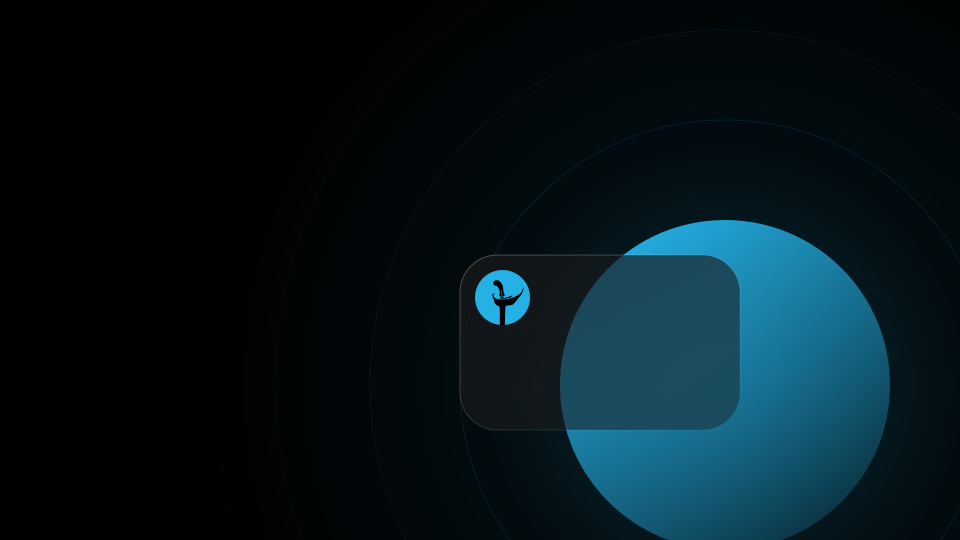
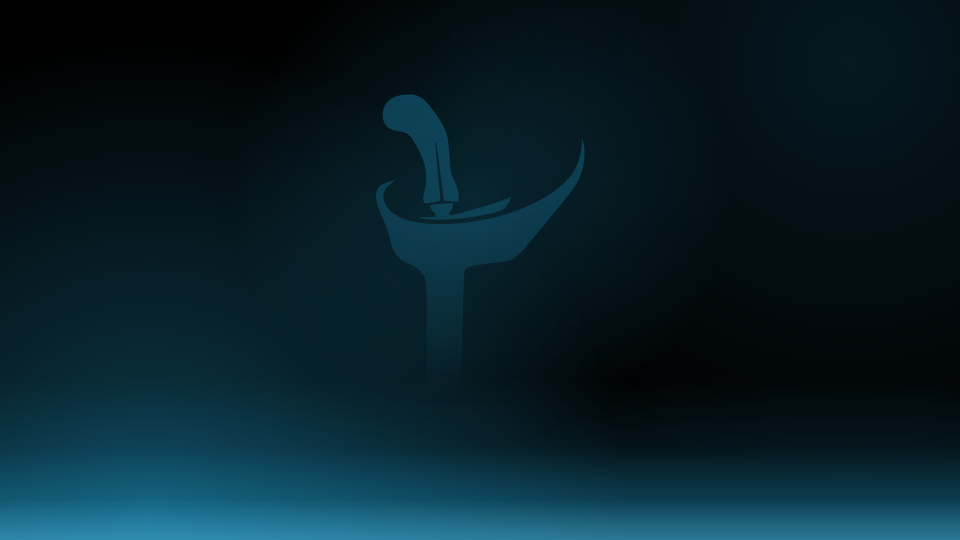
Make the wallpaper softer, with the keris blended in
Glows and fading wave bands replace the orb and pane. The emblem's keris is
drawn large and faint without its disc, fading out at its foot.

diff --git a/theme/generate.py b/theme/generate.py
@@ -11,7 +11,7 @@ An unknown {{token}} is a KeyError, so a typo fails the build.
 
 wallpaper.svg is rendered twice into usr/share/backgrounds/kriss/: kriss-dark.svg
 from the tokens as they are, kriss-light.svg with every light_X token in place of X.
-{{logo}} in it is the emblem's SVG body, always in its dark-token colours.
+{{keris}} in it is the emblem's keris path with no fill, so the wallpaper colours it.
 """
 import json
 import pathlib
@@ -54,9 +54,9 @@ def main(src, dst):
     wp = dst / "usr/share/backgrounds/kriss"
     wp.mkdir(parents=True, exist_ok=True)
     # Inlined, not <image>: Qt's SVG renderer cannot load an external or nested SVG.
-    logo = re.search(r"<svg[^>]*>(.*)</svg>", render(LOGO.read_text(), values), re.S).group(1)
+    keris = re.sub(r' fill="[^"]*"', "", re.search(r"<path [^>]*/>", LOGO.read_text()).group(0))
     for mode, t in (("dark", tokens), ("light", light(tokens))):
-        out = render(WALLPAPER.read_text(), {**variants(t), "logo": logo})
+        out = render(WALLPAPER.read_text(), {**variants(t), "keris": keris})
         (wp / f"kriss-{mode}.svg").write_text(out)
 
 
